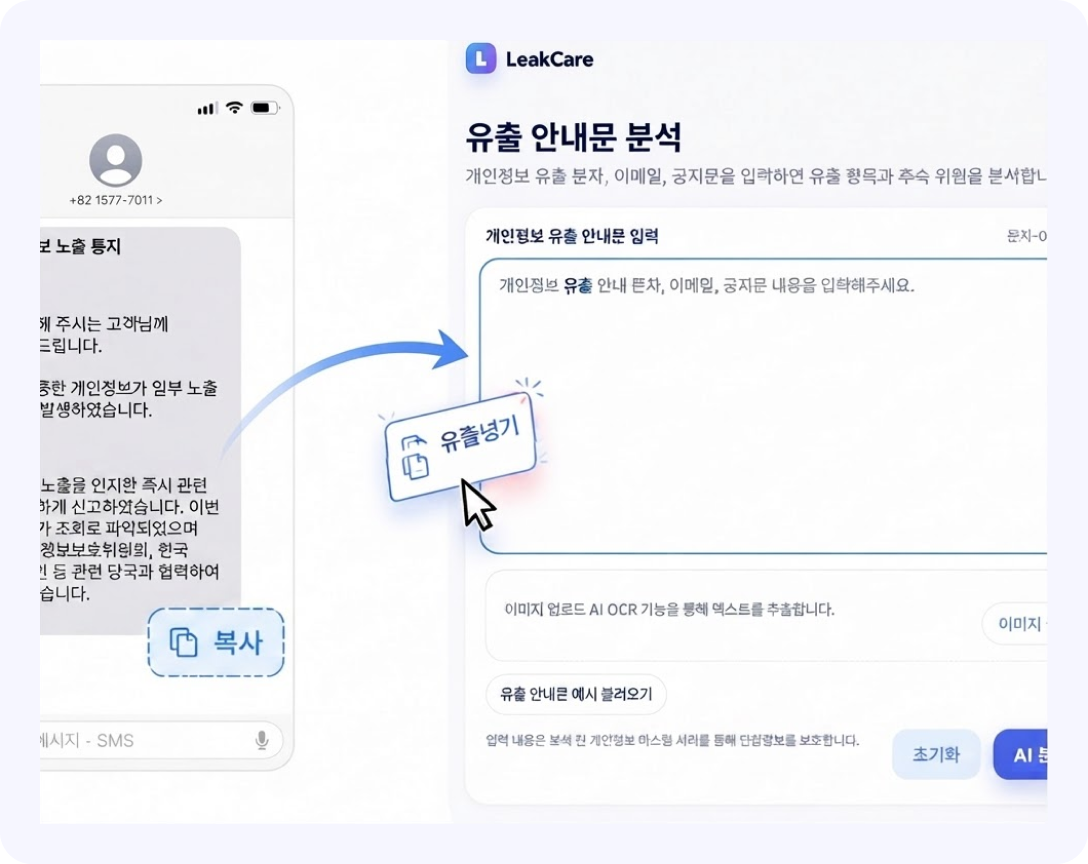
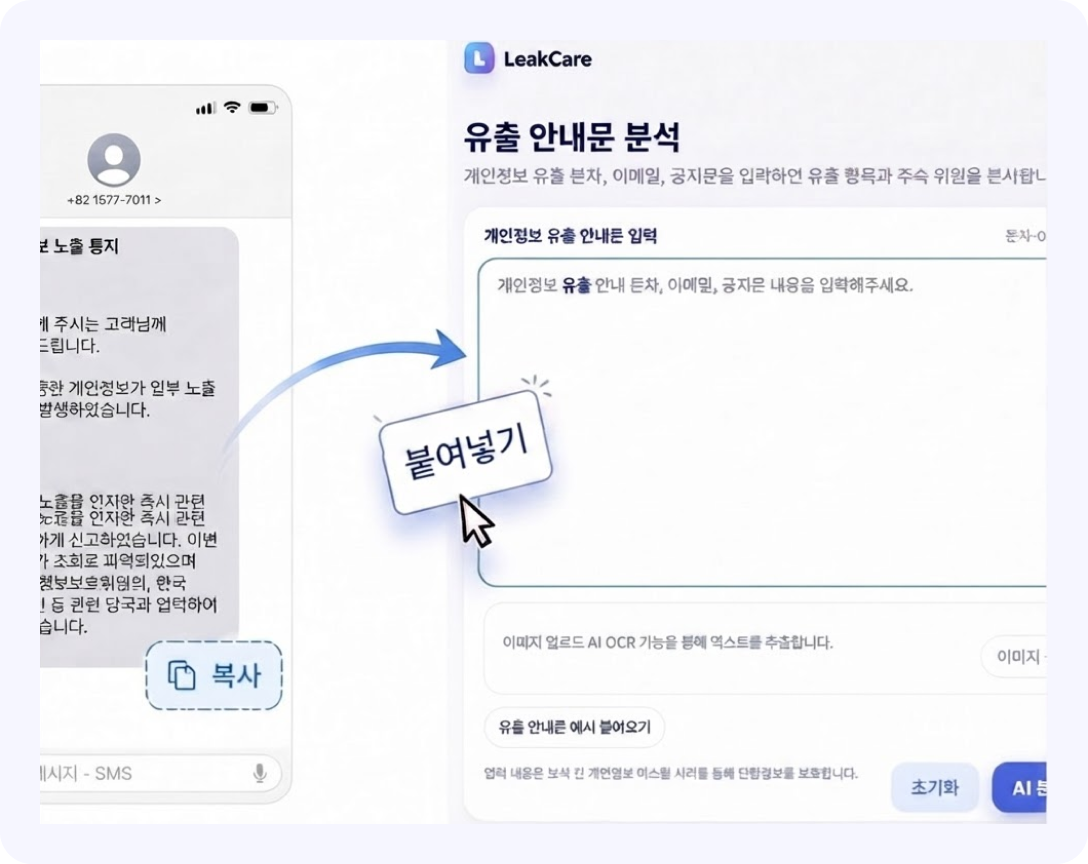
모바일 최적화 최종

diff --git a/src/lib/ocr.ts b/src/lib/ocr.ts
@@ -1,17 +1,123 @@
 import { createWorker } from "tesseract.js";
 
+type PreparedImage = {
+  url: string;
+  revoke: () => void;
+};
+
+const MAX_IMAGE_EDGE = 3000;
+const UPSCALE_TARGET_WIDTH = 1800;
+const CONTRAST = 1.16;
+
+function loadImage(url: string): Promise<HTMLImageElement> {
+  return new Promise((resolve, reject) => {
+    const image = new Image();
+    image.onload = () => resolve(image);
+    image.onerror = () => reject(new Error("OCR 이미지를 불러오지 못했습니다."));
+    image.src = url;
+  });
+}
+
+function canvasToBlob(canvas: HTMLCanvasElement): Promise<Blob> {
+  return new Promise((resolve, reject) => {
+    canvas.toBlob((blob) => {
+      if (blob) {
+        resolve(blob);
+        return;
+      }
+
+      reject(new Error("OCR 전처리 이미지를 생성하지 못했습니다."));
+    }, "image/png");
+  });
+}
+
+async function prepareImage(sourceUrl: string): Promise<PreparedImage> {
+  const image = await loadImage(sourceUrl);
+  const longestEdge = Math.max(image.naturalWidth, image.naturalHeight);
+  const desiredScale =
+    image.naturalWidth < UPSCALE_TARGET_WIDTH
+      ? Math.min(2, UPSCALE_TARGET_WIDTH / image.naturalWidth)
+      : 1;
+  const scale = Math.min(desiredScale, MAX_IMAGE_EDGE / longestEdge);
+
+  const canvas = document.createElement("canvas");
+  canvas.width = Math.max(1, Math.round(image.naturalWidth * scale));
+  canvas.height = Math.max(1, Math.round(image.naturalHeight * scale));
+
+  const context = canvas.getContext("2d", { willReadFrequently: true });
+
+  if (!context) {
+    throw new Error("OCR 이미지 전처리를 시작하지 못했습니다.");
+  }
+
+  context.imageSmoothingEnabled = true;
+  context.imageSmoothingQuality = "high";
+  context.drawImage(image, 0, 0, canvas.width, canvas.height);
+
+  const imageData = context.getImageData(0, 0, canvas.width, canvas.height);
+  const pixels = imageData.data;
+
+  for (let index = 0; index < pixels.length; index += 4) {
+    const gray =
+      pixels[index] * 0.299 +
+      pixels[index + 1] * 0.587 +
+      pixels[index + 2] * 0.114;
+    const adjusted = Math.max(
+      0,
+      Math.min(255, (gray - 128) * CONTRAST + 128)
+    );
+
+    pixels[index] = adjusted;
+    pixels[index + 1] = adjusted;
+    pixels[index + 2] = adjusted;
+  }
+
+  context.putImageData(imageData, 0, 0);
+
+  const blob = await canvasToBlob(canvas);
+  const url = URL.createObjectURL(blob);
+
+  return {
+    url,
+    revoke: () => URL.revokeObjectURL(url),
+  };
+}
+
+function normalizeOcrText(text: string): string {
+  return text
+    .replace(/\u0000/g, "")
+    .replace(/[ \t]+$/gm, "")
+    .replace(/\n{3,}/g, "\n\n")
+    .trim();
+}
+
 export async function extractTextFromImage(file: File): Promise<string> {
   const worker = await createWorker("kor+eng");
+  const sourceUrl = URL.createObjectURL(file);
+  let preparedImage: PreparedImage | null = null;
 
   try {
-    const imageUrl = URL.createObjectURL(file);
-    const result = await worker.recognize(imageUrl);
-    URL.revokeObjectURL(imageUrl);
+    const originalResult = await worker.recognize(sourceUrl);
 
-    const text = result.data.text.trim();
+    try {
+      preparedImage = await prepareImage(sourceUrl);
+      const preparedResult = await worker.recognize(preparedImage.url);
+      const selectedResult =
+        preparedResult.data.confidence > originalResult.data.confidence
+          ? preparedResult
+          : originalResult;
 
-    return text;
+      return normalizeOcrText(selectedResult.data.text);
+    } catch (preprocessingError) {
+      console.warn(
+        "OCR 이미지 전처리에 실패해 원본 인식 결과를 사용합니다.",
+        preprocessingError
+      );
+      return normalizeOcrText(originalResult.data.text);
+    }
   } finally {
+    preparedImage?.revoke();
+    URL.revokeObjectURL(sourceUrl);
     await worker.terminate();
   }
 }

diff --git a/src/app/globals.css b/src/app/globals.css
@@ -343,6 +343,10 @@ input {
   letter-spacing: -0.055em;
 }
 
+.mobile-title-break {
+  white-space: nowrap;
+}
+
 .feature-showcase-heading p {
   margin: 0;
   color: var(--muted);
@@ -361,7 +365,7 @@ input {
   min-width: 0;
   padding: 0;
   color: var(--text);
-  text-align: left;
+  text-align: center;
 }
 
 .feature-tab strong,
@@ -1324,6 +1328,20 @@ textarea:focus {
     padding-bottom: 54px;
   }
 
+  .hero .hero-actions {
+    width: 100%;
+    flex-wrap: nowrap;
+    gap: 8px;
+  }
+
+  .hero .hero-actions a {
+    min-width: 0;
+    flex: 1 1 0;
+    padding: 12px 8px;
+    font-size: 13px;
+    white-space: nowrap;
+  }
+
   .stats {
     grid-template-columns: 1fr;
     padding-left: 18px;
@@ -1331,9 +1349,15 @@ textarea:focus {
   }
 
   .feature-showcase {
-    width: auto;
-    margin: 0 18px;
-    padding: 34px 0 54px;
+    width: 100%;
+    margin: 0;
+    padding: 34px 18px 54px;
+    background: linear-gradient(
+      to bottom,
+      rgba(255, 255, 255, 0) 0,
+      rgba(255, 255, 255, 0.82) 96px,
+      #fff 150px
+    );
   }
 
   .feature-showcase-heading {
@@ -1344,25 +1368,35 @@ textarea:focus {
     font-size: 15px;
   }
 
+  .mobile-title-break {
+    display: block;
+  }
+
   .feature-tabs {
     margin-top: 0;
-    grid-template-columns: repeat(3, minmax(0, 1fr));
-    gap: 12px;
+    grid-template-columns: 1fr;
+    gap: 32px;
   }
 
   .feature-tab {
-    padding: 10px 0 2px;
+    padding: 4px 0;
+    text-align: center;
   }
 
   .feature-tab strong {
-    margin-bottom: 6px;
-    font-size: 14px;
+    margin-bottom: 8px;
+    font-size: 17px;
     line-height: 1.4;
   }
 
   .feature-tab span {
-    font-size: 12px;
-    line-height: 1.55;
+    width: 100%;
+    max-width: 300px;
+    margin: 0 auto;
+    padding: 0 14px;
+    font-size: 14px;
+    line-height: 1.65;
+    word-break: keep-all;
   }
 
   .card-grid {

diff --git a/src/app/banner/page.tsx b/src/app/banner/page.tsx
@@ -50,6 +50,13 @@ const guideSteps = [
       "위험도를 모두 분석해 사용자가 취해야 할 조치를 우선순위에 따라 대응 체크리스트로 제공합니다.",
     image: "/images/banner/guide-step-4.png",
   },
+  {
+    step: "STEP 5",
+    title: "공유용 안내문 & 신고문 생성",
+    description:
+      "복잡한 유출 내용을 쉬운 안내문으로 요약해 공유하며, 유출내용을 기반으로 신고문 PDF 생성 기능을 제공합니다.",
+    image: "/images/banner/family-guide.png",
+  },
 ] as const;
 
 export default function BannerPage() {
@@ -185,7 +192,9 @@ export default function BannerPage() {
           aria-labelledby="feature-showcase-title"
         >
           <div className="feature-showcase-heading">
-            <h2 id="feature-showcase-title">유출 이후의 대응을 한 눈에</h2>
+            <h2 id="feature-showcase-title">
+              유출 이후의 대응을 <span className="mobile-title-break">한 눈에</span>
+            </h2>
             <p>분석부터 2차 피해 예방, 가족 공유까지 LeakCare가 함께 정리합니다.</p>
           </div>
 

diff --git a/src/components/ReminderBanner.tsx b/src/components/ReminderBanner.tsx
@@ -113,6 +113,7 @@ export default function ReminderBanner() {
           display: "flex",
           alignItems: "center",
           gap: "8px",
+          flexShrink: 0,
         }}
       >
         <a
@@ -139,6 +140,8 @@ export default function ReminderBanner() {
             color: "#9a3412",
             cursor: "pointer",
             fontWeight: 700,
+            whiteSpace: "nowrap",
+            flexShrink: 0,
           }}
         >
           닫기
